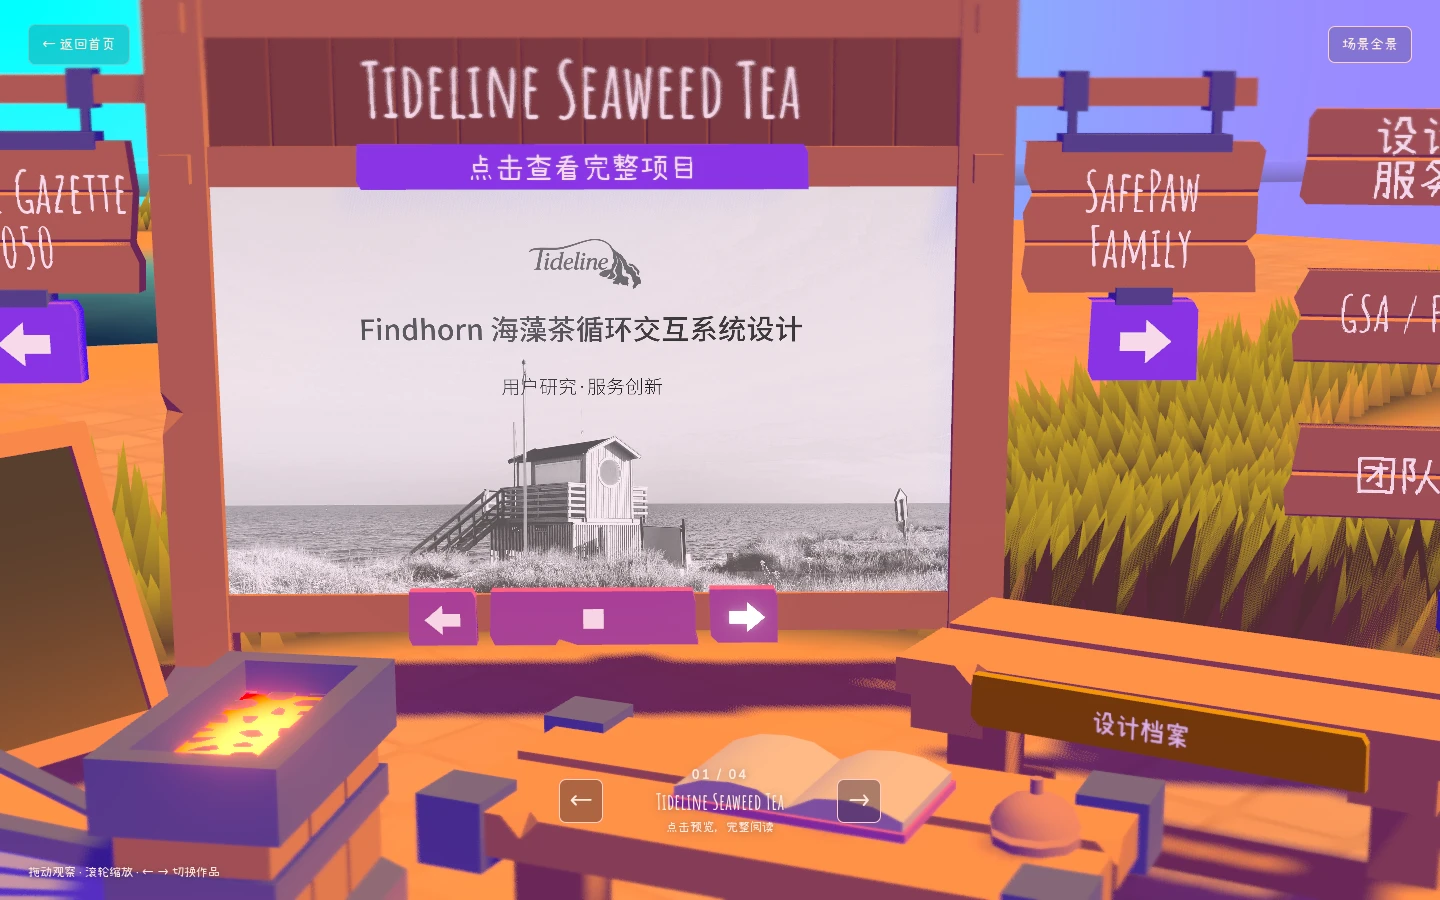
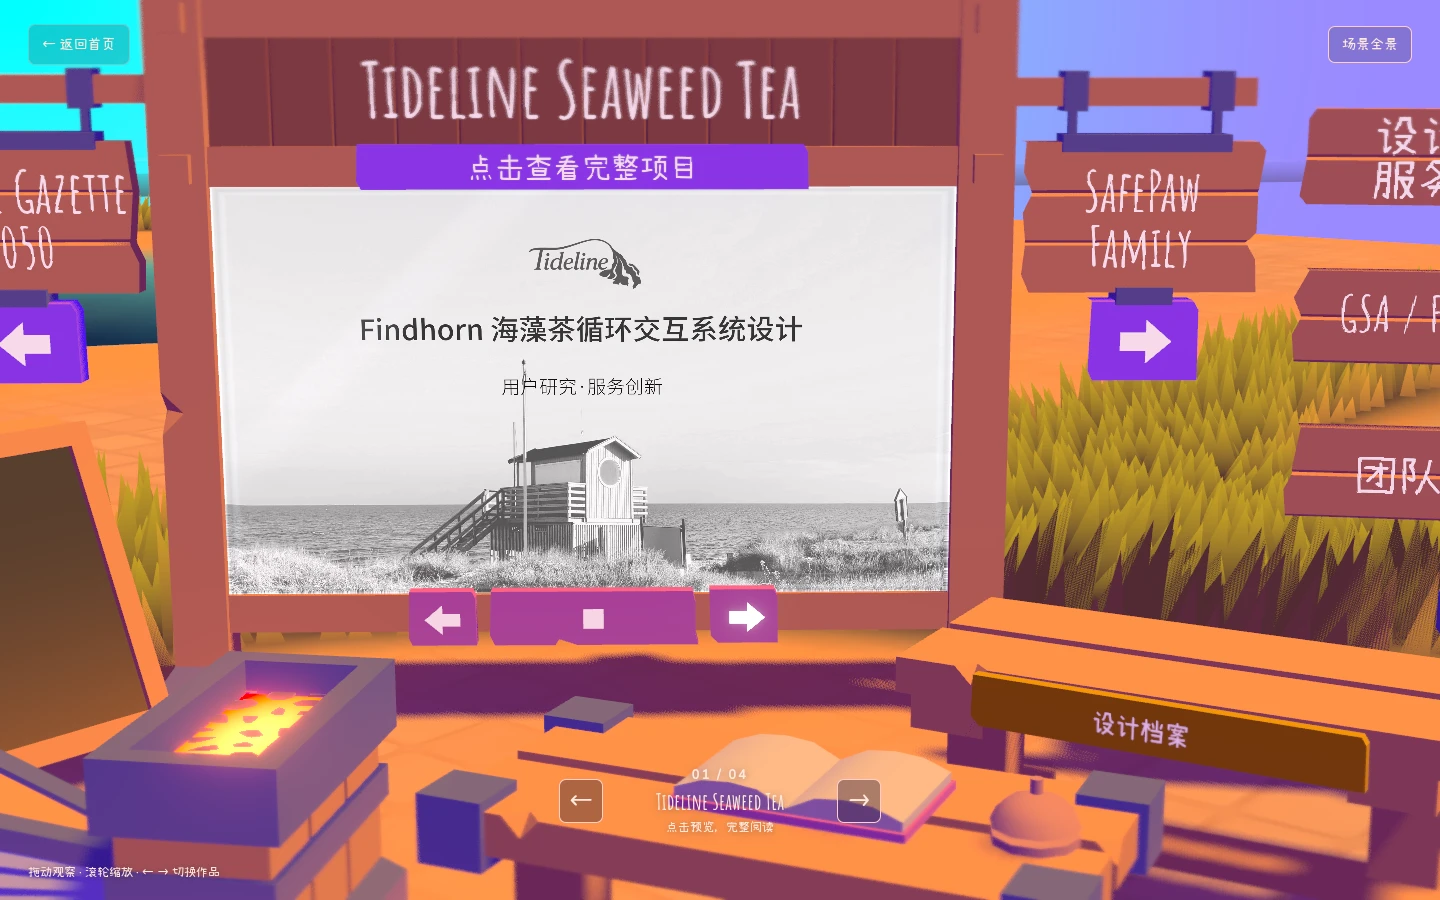
Make portfolio glass clearer with stronger refraction and thicker beveled edges

diff --git a/experiments/bruno-projects/src/bruno/World/Areas/ProjectsArea.js b/experiments/bruno-projects/src/bruno/World/Areas/ProjectsArea.js
@@ -342,6 +342,8 @@ export class ProjectsArea extends Area
         this.images.animationProgress = uniform(0)
         this.images.animationDirection = uniform(0)
         this.images.glassStrength = uniform(1)
+        this.images.glassIOR = uniform(1.62)
+        this.images.glassThickness = uniform(0.018)
 
         // Mesh
         this.images.mesh = this.references.items.get('images')[0]
@@ -366,6 +368,19 @@ export class ProjectsArea extends Area
                 const uvOld = uv().toVar()
                 const uvNew = uv().toVar()
 
+                // Optical depth is concentrated in the bevel; the reading area
+                // stays sharp instead of receiving a full-screen milky overlay.
+                const viewDirection = cameraPosition.sub(positionWorld).normalize()
+                const edgeXY = uv().min(uv().oneMinus())
+                const edgeDistance = edgeXY.x.min(edgeXY.y)
+                const bevel = smoothstep(0.003, 0.035, edgeDistance).oneMinus()
+                const opticalDepth = this.images.glassThickness.mul(this.images.glassIOR.sub(1))
+                    .mul(this.images.glassStrength)
+                const refractionOffset = uv().sub(0.5).mul(bevel).mul(opticalDepth)
+                    .add(viewDirection.xy.mul(bevel).mul(opticalDepth).mul(0.15))
+                uvOld.addAssign(refractionOffset)
+                uvNew.addAssign(refractionOffset)
+
                 // Parallax (add an offset according to progress)
                 uvNew.x.addAssign(this.images.animationProgress.oneMinus().mul(-0.25).mul(this.images.animationDirection))
                 uvOld.x.addAssign(this.images.animationProgress.mul(0.25).mul(this.images.animationDirection))
@@ -386,15 +401,24 @@ export class ProjectsArea extends Area
                 const threshold = step(this.images.animationProgress, reveal)
 
                 const textureColor = mix(textureNewColor, textureOldColor, threshold)
-                // A restrained, view-dependent sheen on the display glass.
-                const viewDirection = cameraPosition.sub(positionWorld).normalize()
+                // Clear glass: narrow highlights and a double bevel, without
+                // washing out the cover's blacks or reducing its saturation.
                 const reflectionUV = uv().x.add(uv().y.mul(0.55)).add(viewDirection.x.mul(0.2))
-                const reflectionBand = smoothstep(0.45, 0.58, reflectionUV)
-                    .sub(smoothstep(0.72, 0.95, reflectionUV)).max(0)
-                const fresnel = normalWorld.dot(viewDirection).abs().oneMinus().pow(3)
-                const reflection = reflectionBand.mul(0.09).add(fresnel.mul(0.08)).add(0.012)
-                    .mul(this.images.glassStrength).clamp(0, 0.18)
-                return mix(textureColor, color('#e5f3ff'), reflection)
+                const reflectionBand = smoothstep(0.50, 0.525, reflectionUV)
+                    .sub(smoothstep(0.56, 0.61, reflectionUV)).max(0)
+                const fresnelBase = this.images.glassIOR.sub(1).div(this.images.glassIOR.add(1)).pow(2)
+                const fresnel = normalWorld.dot(viewDirection).abs().oneMinus().pow(5)
+                    .mul(fresnelBase.oneMinus()).add(fresnelBase)
+                const outerRim = smoothstep(0.001, 0.005, edgeDistance).oneMinus()
+                const innerRim = smoothstep(0.010, 0.014, edgeDistance)
+                    .sub(smoothstep(0.016, 0.023, edgeDistance)).max(0)
+                const bevelShadow = smoothstep(0.004, 0.010, edgeDistance)
+                    .sub(smoothstep(0.014, 0.020, edgeDistance)).max(0)
+                const highlight = reflectionBand.mul(0.035).add(outerRim.mul(0.40))
+                    .add(innerRim.mul(0.10)).add(bevel.mul(fresnel).mul(0.18))
+                    .mul(this.images.glassStrength)
+                return textureColor.mul(bevelShadow.mul(this.images.glassStrength).mul(-0.08).add(1))
+                    .add(color('#e5f5ff').mul(highlight))
 
             })()
             
@@ -412,7 +436,7 @@ export class ProjectsArea extends Area
                     mix(
                         baseOutput.rgb,
                         colorNode,
-                        this.shadeMix.images.mixUniform
+                        this.shadeMix.images.mixUniform.max(0.92)
                     ),
                     baseOutput.a
                 )
